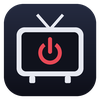
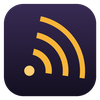
Icono propio de RF/NFC: ondas de señal en ámbar sobre violeta
Reemplaza el icono heredado de TV-B-Gone (una tele). El motivo (ondas saliendo de un punto) vale
tanto para Sub-GHz como para NFC/contactless, y el violeta lo distingue del resto de apps Zero.

diff --git a/Tools/generar_icono.py b/Tools/generar_icono.py
@@ -1,6 +1,8 @@
 #!/usr/bin/env python3
-"""Dibuja el icono de la app (una tele con el símbolo de apagado) en los tamaños que piden
-el lanzador (assets/images) y la tienda (store/icon.png). Necesita Pillow.
+"""Dibuja el icono de la app RF / NFC en los tamaños que piden el lanzador (assets/images) y la
+tienda (store/icon.png). El motivo son ondas de señal saliendo de un punto (sirve para Sub-GHz y
+para NFC/contactless a la vez), en ámbar sobre un fondo violeta oscuro, al estilo de las demás
+apps Zero (fondo degradado en cuadrado de esquinas redondas). Necesita Pillow.
 
     Tools/generar_icono.py
 """
@@ -15,10 +17,10 @@ LADO = 1024  # se dibuja grande y se reduce: así los bordes salen suaves
 def icono():
     imagen = Image.new("RGBA", (LADO, LADO), (0, 0, 0, 0))
 
-    # Fondo: degradado de arriba abajo recortado en un cuadrado de esquinas redondas.
+    # Fondo: degradado violeta oscuro recortado en un cuadrado de esquinas redondas.
     fondo = Image.new("RGBA", (LADO, LADO))
     trazo = ImageDraw.Draw(fondo)
-    arriba, abajo = (38, 44, 66), (12, 13, 22)
+    arriba, abajo = (58, 44, 86), (18, 14, 30)
     for y in range(LADO):
         t = y / (LADO - 1)
         trazo.line([(0, y), (LADO, y)], fill=tuple(round(a + (b - a) * t) for a, b in zip(arriba, abajo)) + (255,))
@@ -27,22 +29,20 @@ def icono():
     imagen.paste(fondo, (0, 0), mascara)
 
     trazo = ImageDraw.Draw(imagen)
-    claro = (230, 232, 240, 255)
-    pantalla = (16, 18, 28, 255)
-    rojo = (232, 72, 85, 255)
+    ambar = (247, 181, 56, 255)
+    ambar_claro = (255, 206, 112, 255)
 
-    # Antenas, tele y patas.
-    trazo.line([(512, 300), (380, 150)], fill=claro, width=30)
-    trazo.line([(512, 300), (644, 150)], fill=claro, width=30)
-    trazo.rounded_rectangle([170, 280, 854, 780], radius=80, fill=claro)
-    trazo.rounded_rectangle([220, 330, 804, 730], radius=45, fill=pantalla)
-    trazo.rounded_rectangle([300, 780, 360, 850], radius=14, fill=claro)
-    trazo.rounded_rectangle([664, 780, 724, 850], radius=14, fill=claro)
+    # Origen de la señal, abajo a la izquierda, dentro del margen del cuadrado.
+    ox, oy = 300, 724
 
-    # Símbolo de apagado: un arco abierto por arriba y la raya.
-    cx, cy, r = 512, 540, 120
-    trazo.arc([cx - r, cy - r, cx + r, cy + r], start=-55, end=235, fill=rojo, width=40)
-    trazo.rounded_rectangle([cx - 20, cy - r - 40, cx + 20, cy + 10], radius=20, fill=rojo)
+    # Punto de origen (el "emisor": antena del CC1101 / chip del NFC).
+    trazo.ellipse([ox - 52, oy - 52, ox + 52, oy + 52], fill=ambar_claro)
+
+    # Tres ondas concéntricas abriéndose hacia arriba a la derecha (NE). Cada arco va de
+    # ~-80° a ~10° respecto al origen, grosor decreciente con la distancia.
+    for r, w in ((230, 64), (400, 58), (570, 52)):
+        trazo.arc([ox - r, oy - r, ox + r, oy + r], start=-78, end=8, fill=ambar, width=w)
+
     return imagen
 
 
